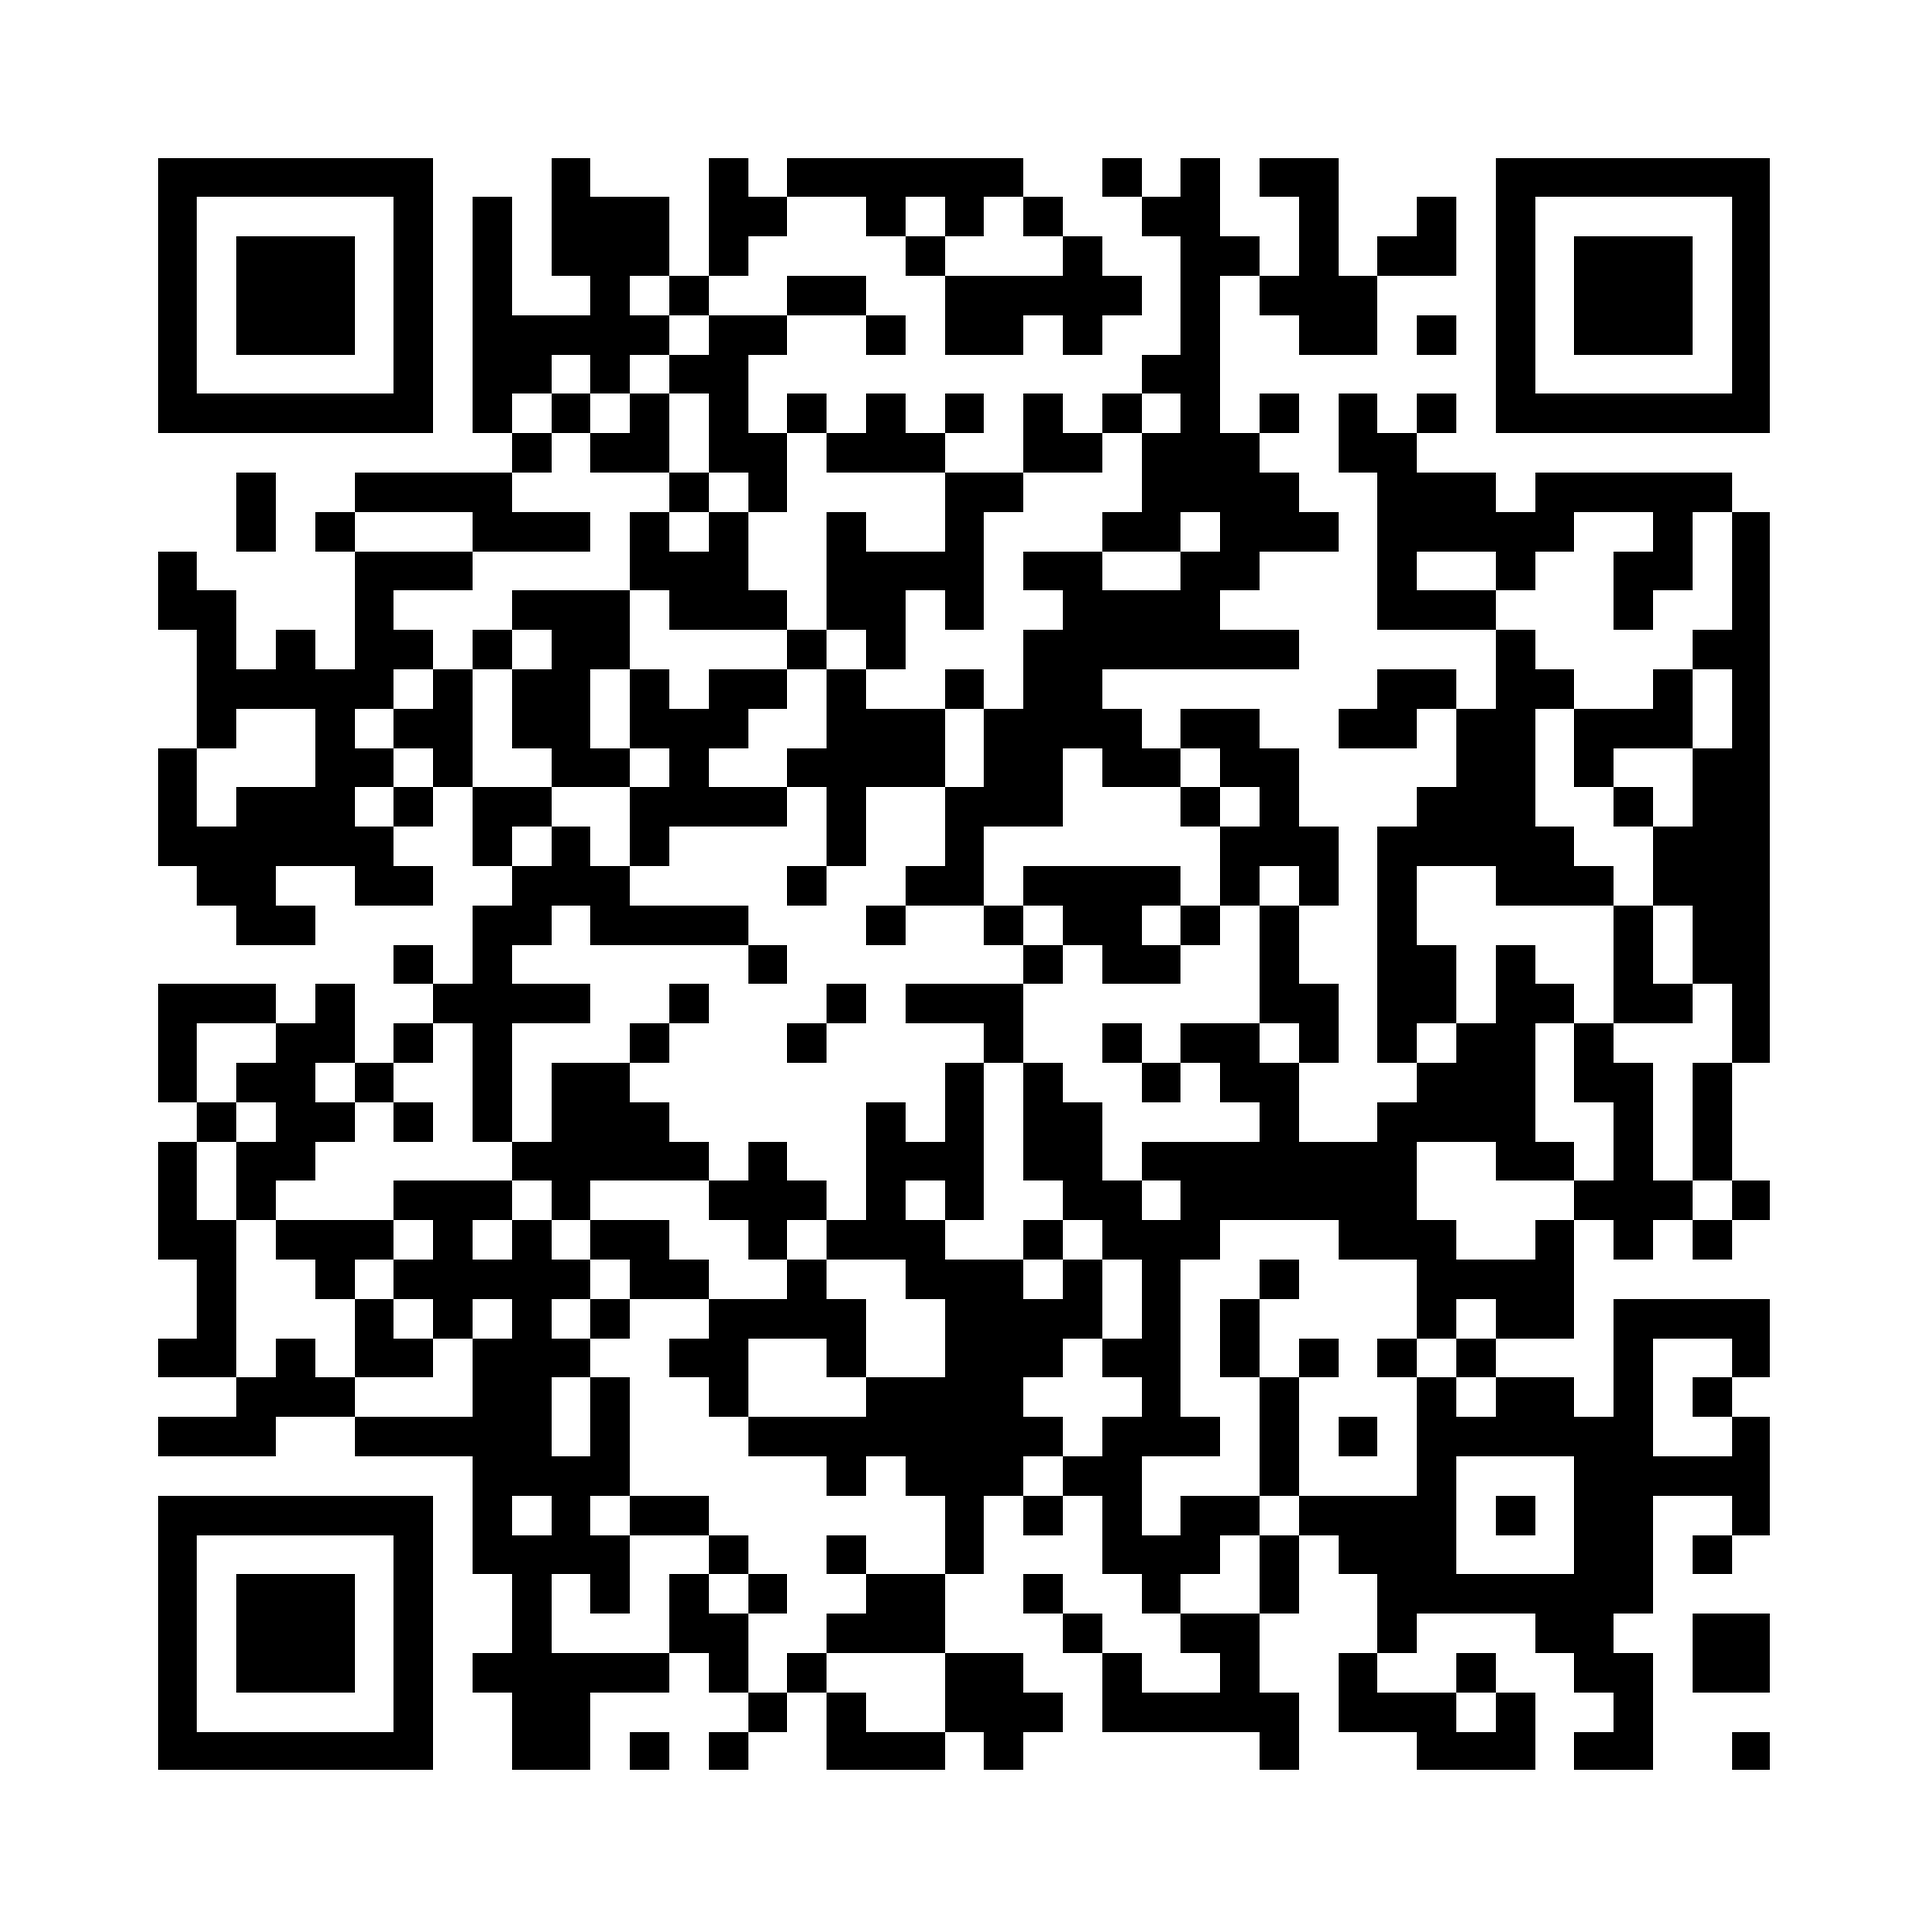
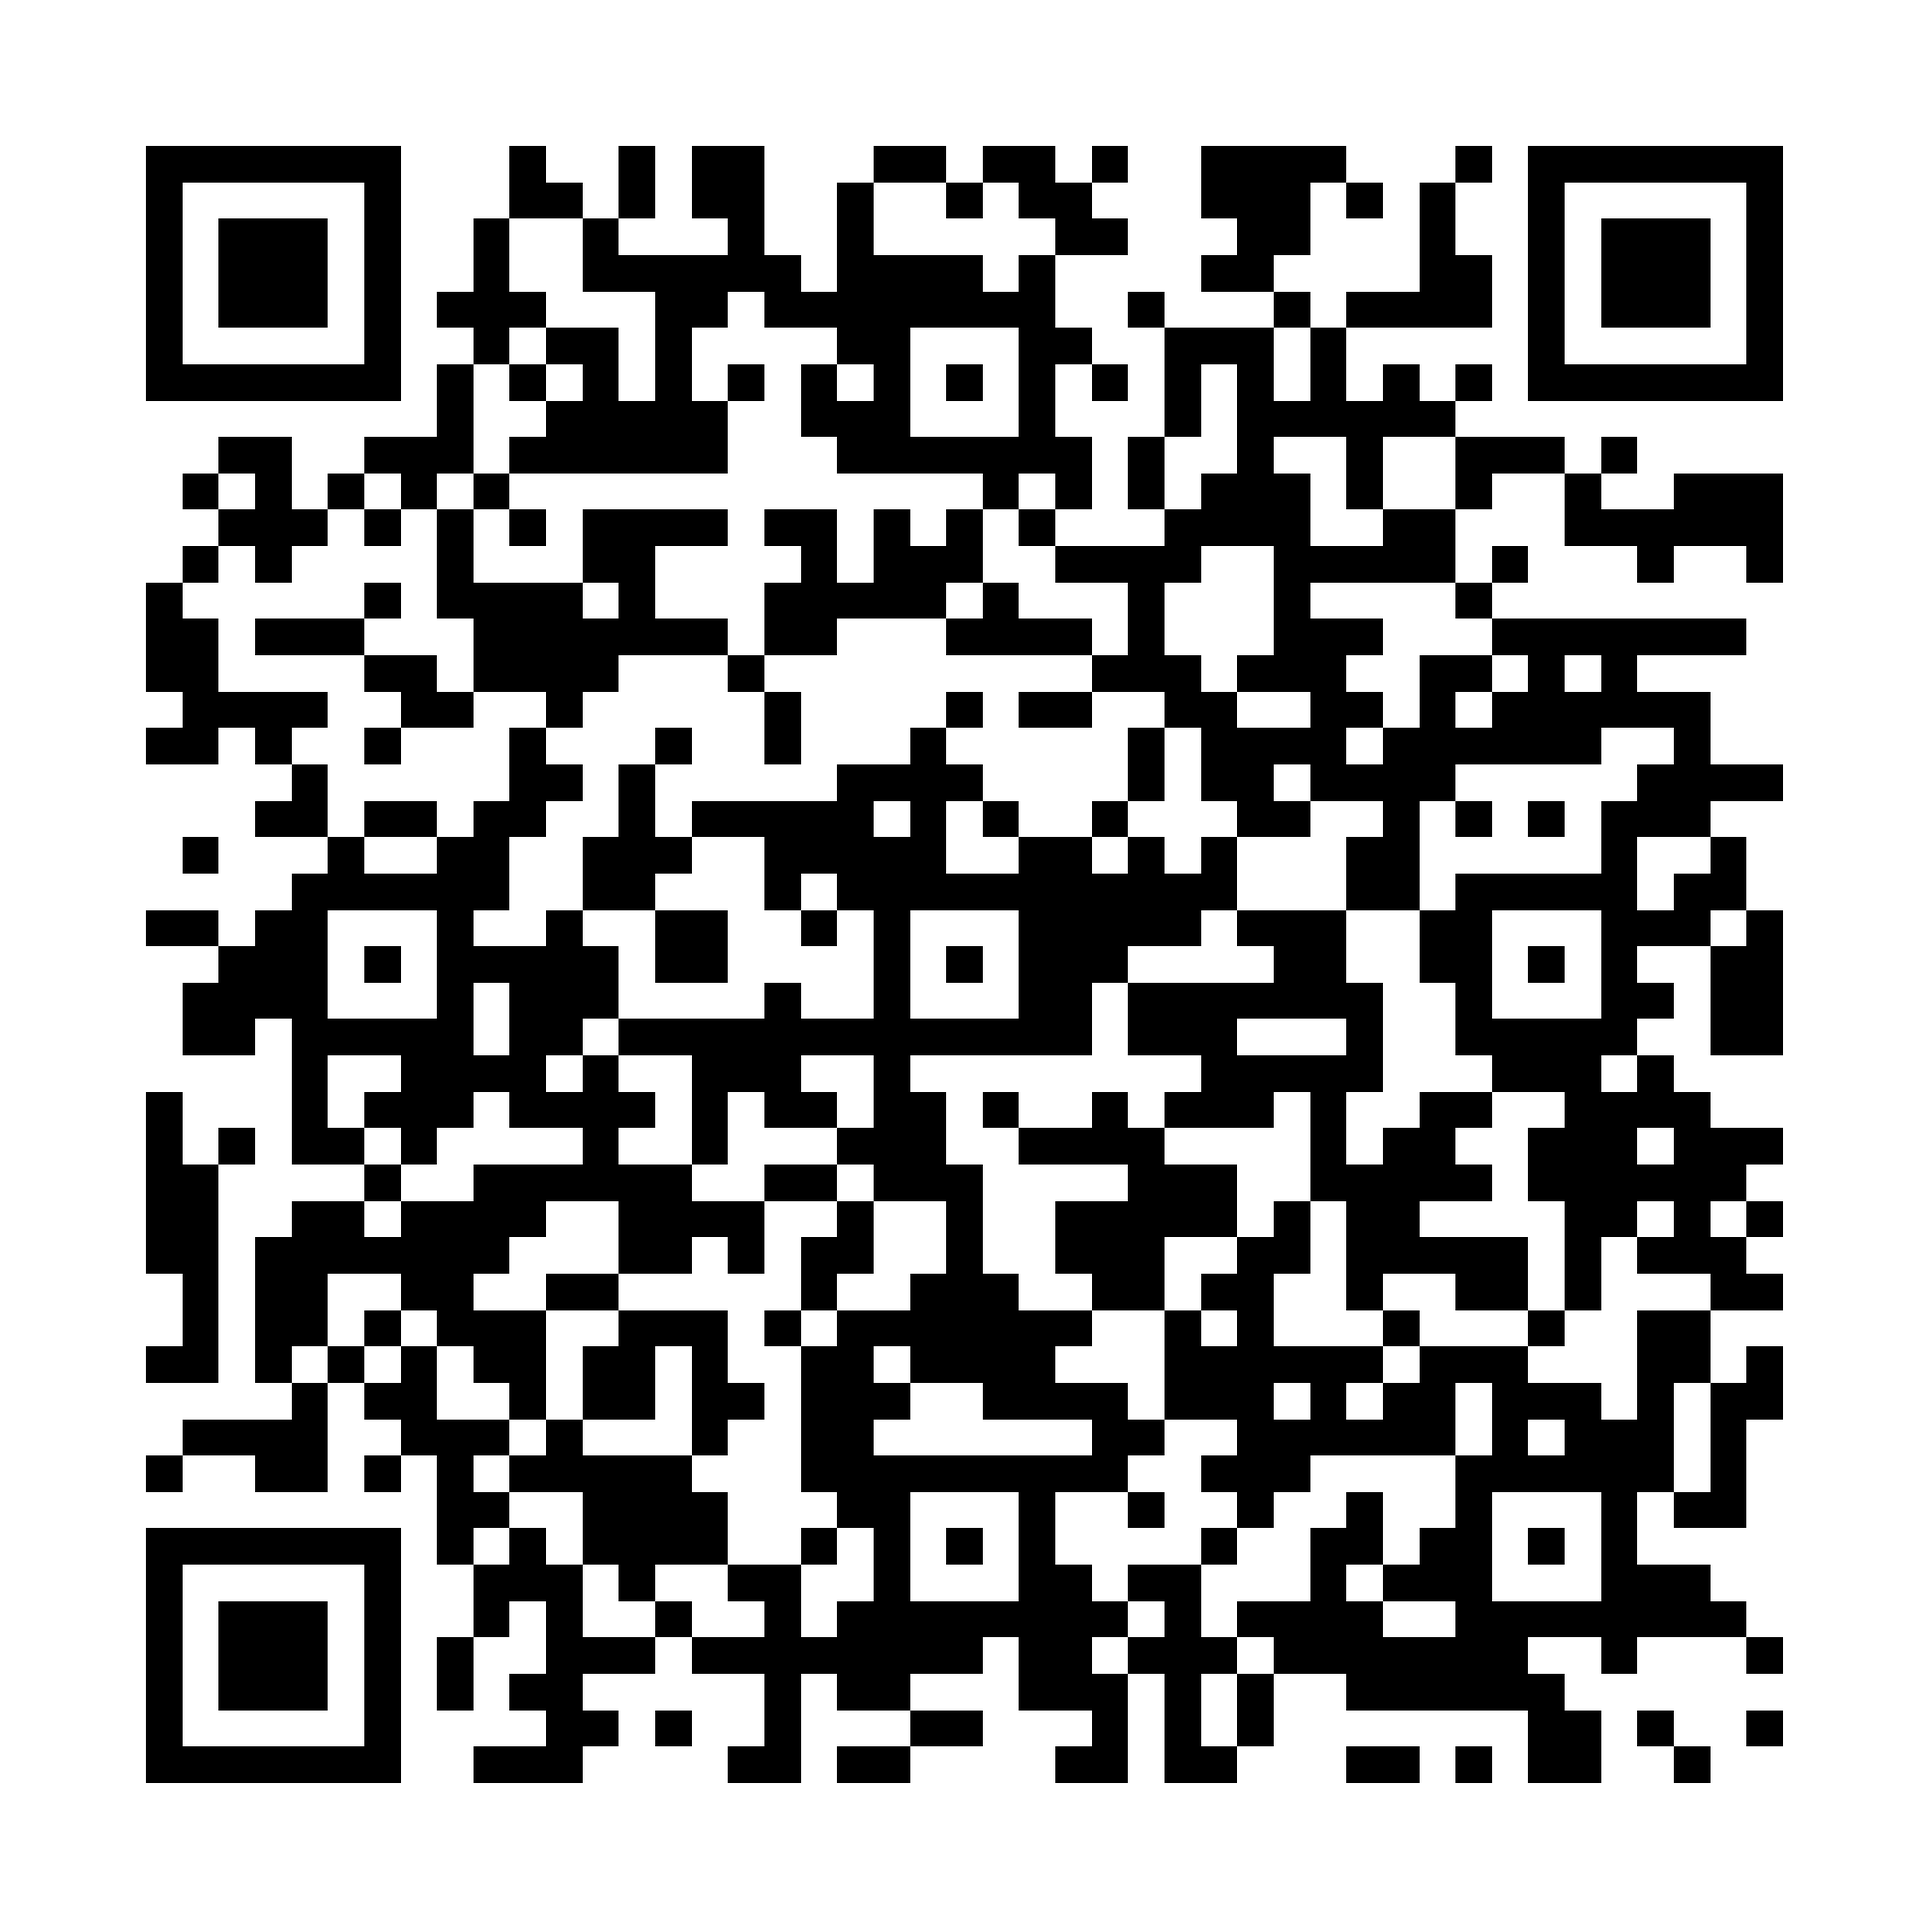
Move to bgols-limited.github.io: new QR codes, contact file, links
Claude-Session: https://claude.ai/code/session_01TprP1ieCAEd2tQhQxghHUL

diff --git a/index.html b/index.html
@@ -10,12 +10,12 @@
   <meta name="theme-color" content="#FFFFFF">
   <meta name="format-detection" content="telephone=no">
   <!-- build:meta (generated by scripts/build.mjs from js/config.js — do not edit by hand) -->
-  <link rel="canonical" href="https://alshams8.github.io/Business-Card-Md-Robiul-Islam/">
+  <link rel="canonical" href="https://bgols-limited.github.io/Business-Card-Md-Robiul-Islam/">
   <meta property="og:type" content="profile">
   <meta property="og:title" content="Md. Robiul Islam | Managing Director | B-GOLS Limited">
   <meta property="og:description" content="Tap. Connect. Save. Share. Digital business card of Md. Robiul Islam, B-GOLS Limited.">
-  <meta property="og:url" content="https://alshams8.github.io/Business-Card-Md-Robiul-Islam/">
-  <meta property="og:image" content="https://alshams8.github.io/Business-Card-Md-Robiul-Islam/assets/exports/og-image.png">
+  <meta property="og:url" content="https://bgols-limited.github.io/Business-Card-Md-Robiul-Islam/">
+  <meta property="og:image" content="https://bgols-limited.github.io/Business-Card-Md-Robiul-Islam/assets/exports/og-image.png">
   <meta property="og:image:width" content="1200">
   <meta property="og:image:height" content="630">
   <meta name="twitter:card" content="summary_large_image">

diff --git a/sw.js b/sw.js
@@ -1,9 +1,9 @@
 /* Service worker: makes the card open instantly and work offline.
    Bump VERSION whenever you change any file so phones fetch the update. */
-// Cache names carry this card's own prefix: two cards share the alshams8.github.io origin,
+// Cache names carry this card's own prefix: two cards share the bgols-limited.github.io origin,
 // so each card must only ever delete its own old caches.
 const PREFIX = "robiul-card-";
-const VERSION = PREFIX + "v8";
+const VERSION = PREFIX + "v9";
 const CORE = [
   "./", "index.html", "card.html", "nfc-setup.html", "email-signature.html", "css/styles.css", "js/config.js", "js/app.js", "contact.vcf",
   "manifest.webmanifest",

diff --git a/js/config.js b/js/config.js
@@ -6,9 +6,9 @@
  * That regenerates the QR codes, the .vcf contact file and the link-preview tags
  * so the NFC tag, QR code and contact file all point to the same address.
  *
- * GitHub Pages address of the repository alshams8/Business-Card-Md-Robiul-Islam.
+ * GitHub Pages address of the repository bgols-limited/Business-Card-Md-Robiul-Islam.
  * (The path is case-sensitive: keep the capital letters.)
  */
 window.CARD_CONFIG = {
-  PROFILE_URL: "https://alshams8.github.io/Business-Card-Md-Robiul-Islam/"
+  PROFILE_URL: "https://bgols-limited.github.io/Business-Card-Md-Robiul-Islam/"
 };

diff --git a/docs/IPHONE-GUIDE.md b/docs/IPHONE-GUIDE.md
@@ -1,6 +1,6 @@
 # Md. Robiul Islam's card on iPhone: step-by-step guide
 
-Card address: **https://alshams8.github.io/Business-Card-Md-Robiul-Islam/**
+Card address: **https://bgols-limited.github.io/Business-Card-Md-Robiul-Islam/**
 (Keep the capital letters. The NFC tag, the QR code and the contact file all point here.)
 
 ## Quick answer: what works iPhone to iPhone
@@ -18,7 +18,7 @@ on iPhone means **NameDrop**, and "tap my card" means a cheap **NFC tag**.
 
 ## 1. Save the card and make it Mr. Robiul's own "My Card" (once, 3 minutes)
 
-1. On Mr. Robiul's iPhone, open **https://alshams8.github.io/Business-Card-Md-Robiul-Islam/** in Safari.
+1. On Mr. Robiul's iPhone, open **https://bgols-limited.github.io/Business-Card-Md-Robiul-Islam/** in Safari.
 2. Tap **Save Contact**, then **Create New Contact**, then **Done**.
 3. Open **Settings › Apps › Contacts › My Info** (on iOS 17: **Settings › Contacts › My Info**) and choose **Md. Robiul Islam**.
 4. Open the **Contacts** app, tap **My Card** at the top, then **Contact Photo & Poster** to set up the photo and poster other iPhones will see.
@@ -47,7 +47,7 @@ NameDrop sends only the name, chosen numbers or emails, and the Contact Poster. 
 1. Open the card in Safari, tap the **Share** button in Safari, then **Add to Home Screen**, then **Add**.
    The card now opens like an app, also offline.
 2. Optional, fastest: show the QR without unlocking menus.
-   - Open the **Shortcuts** app › **+** › **Add Action** › **Open URLs** › enter **https://alshams8.github.io/Business-Card-Md-Robiul-Islam/#qr** › name it "My QR".
+   - Open the **Shortcuts** app › **+** › **Add Action** › **Open URLs** › enter **https://bgols-limited.github.io/Business-Card-Md-Robiul-Islam/#qr** › name it "My QR".
    - Then **Settings › Accessibility › Touch › Back Tap › Double Tap** › choose **My QR**.
      Now a double tap on the back of the iPhone opens the card already flipped to the QR side.
    - iPhone 15 Pro or newer: you can put the same shortcut on the **Action button** instead
@@ -57,7 +57,7 @@ NameDrop sends only the name, chosen numbers or emails, and the Contact Poster. 
 
 1. Buy blank **NTAG215** cards or **NTAG213** stickers (any phone accessory shop or online).
 2. On the iPhone, install **NFC Tools** (by wakdev) from the App Store.
-3. In NFC Tools: **Write › Add a record › URL / URI** › paste **https://alshams8.github.io/Business-Card-Md-Robiul-Islam/** › **OK** › **Write**,
+3. In NFC Tools: **Write › Add a record › URL / URI** › paste **https://bgols-limited.github.io/Business-Card-Md-Robiul-Islam/** › **OK** › **Write**,
    then hold the **top edge** of the iPhone against the tag.
 4. Test: tap the tag with another phone. A banner appears; tap it to open the card.
 5. When it works, lock it: NFC Tools › **Other › Lock tag** (permanent).

diff --git a/docs/DEPLOYMENT.md b/docs/DEPLOYMENT.md
@@ -5,10 +5,10 @@ The card is a folder of static files. Any HTTPS static host works. The address y
 
 ## Option 1: GitHub Pages (free, fastest)
 
-1. Public repository on GitHub: `alshams8/Business-Card-Md-Robiul-Islam`.
+1. Public repository on GitHub: `bgols-limited/Business-Card-Md-Robiul-Islam`.
 2. Upload the contents of this folder (or `git push`). `node_modules/` is not needed.
 3. Repository → **Settings → Pages** → Source: *Deploy from a branch* → Branch `main`, folder `/ (root)` → Save.
-4. After ~1 minute the site is at `https://alshams8.github.io/Business-Card-Md-Robiul-Islam/`, the address
+4. After ~1 minute the site is at `https://bgols-limited.github.io/Business-Card-Md-Robiul-Islam/`, the address
    already in `js/config.js`, so nothing needs regenerating.
 5. Tick **Enforce HTTPS** (on by default for `github.io`).
 
@@ -26,7 +26,7 @@ It needs B-GOLS IT (whoever manages the `bgols.com` DNS):
 
 1. Host the folder on any of the options above, inside a sub-folder `robiul/`
    (e.g. repository `card`, files in `robiul/`).
-2. DNS: add a **CNAME** record `card` → `alshams8.github.io` (GitHub) or the Netlify/Cloudflare target.
+2. DNS: add a **CNAME** record `card` → `bgols-limited.github.io` (GitHub) or the Netlify/Cloudflare target.
 3. GitHub Pages: Settings → Pages → *Custom domain* `card.bgols.com` → wait for the certificate → *Enforce HTTPS*.
 4. Open `https://card.bgols.com/robiul/` in a browser and check the padlock **before** writing tags.
 5. Set `PROFILE_URL` to `https://card.bgols.com/robiul/`, run the build, redeploy.

diff --git a/README.md b/README.md
@@ -3,7 +3,7 @@
 **TAP. CONNECT. SAVE. SHARE.**
 Managing Director | B-GOLS Limited · Chairman | BG Express Cambodia Co., Ltd.
 
-Live at **https://alshams8.github.io/Business-Card-Md-Robiul-Islam/** (GitHub Pages, branch `main`, folder `/`).
+Live at **https://bgols-limited.github.io/Business-Card-Md-Robiul-Islam/** (GitHub Pages, branch `main`, folder `/`).
 iPhone sharing (NameDrop, AirDrop, QR, NFC tag): see [`docs/IPHONE-GUIDE.md`](docs/IPHONE-GUIDE.md).
 
 A lightweight, installable web app (PWA) that works as a digital business card. One permanent
@@ -11,7 +11,7 @@ HTTPS address is shared four ways: an **NFC tag**, a **QR code**, a **link**, an
 **native share sheet**. Visitors can call, WhatsApp, WeChat, email, open the company website, get directions to the Dhaka, Chattogram and Phnom Penh offices and
 **save the contact (.vcf)**. No app, login, tracking or data collection.
 
-> Built from the same template as https://alshams8.github.io/digital-card/ .
+> Built from the same template as https://bgols-limited.github.io/digital-card/ .
 > `js/config.js` holds the address. After changing it, run `node scripts/build.mjs`.
 
 ---

diff --git a/docs/TEST-REPORT.md b/docs/TEST-REPORT.md
@@ -11,7 +11,7 @@ Tested in headless Chromium with the iPhone 13 profile (390 × 844, touch) again
 | WhatsApp links `wa.me/8801335134461` and `wa.me/8801819129304` | Pass |
 | WeChat sheet (quick button and contact row) shows both numbers, each with Copy | Pass |
 | `#qr` opens the card on the QR side; plain address opens the front | Pass |
-| QR codes (SVG/PNG, printed card back, portrait card back) decode to `https://alshams8.github.io/Business-Card-Md-Robiul-Islam/` | Pass (zxing-cpp) |
+| QR codes (SVG/PNG, printed card back, portrait card back) decode to `https://bgols-limited.github.io/Business-Card-Md-Robiul-Islam/` | Pass (zxing-cpp) |
 | `contact.vcf`: vCard 3.0, CRLF, lines ≤ 75 octets, two mobile numbers, two emails, three labelled office addresses, embedded 256 px photo | Pass |
 | card.html, nfc-setup.html, email-signature.html, manifest, sw.js load | Pass |
 
